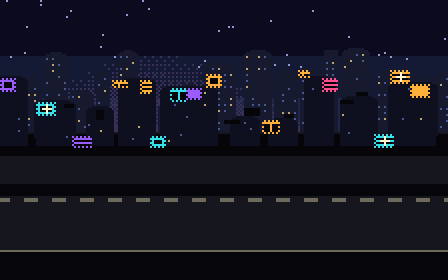
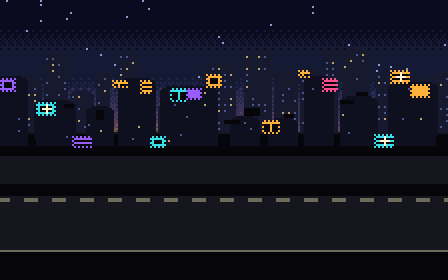
feat(highway-night): let a halo fall off instead of ending
Three ramps gain a fifth step — the air a beam crosses, the asphalt under a
head, and the asphalt behind a tail lamp — and the band pass reads how many
steps a ramp has rather than assuming four, so every ramp that still has four
resolves to exactly what it did before. On four steps a light has one step of
skirt and then the dark, which is not what a light does.

The lamp heads and the oncoming headlamps also ask for a second lobe: three
times the span, an eighth of the gain, added alongside the core rather than
replacing it. Sources add, so what comes out is one profile with a point on it
— the tight core of the fitting and the long wash around it that is most of
what makes a photographed lamp look photographed.

The GIFs and the thumbnails are re-cut, the elevation's among them: it shares
the palette and the ramps, and a road that climbs one step further climbs it in
both pictures.

Claude-Session: https://claude.ai/code/session_01W4ZoF9Xtumsn5LKzoQCmzd

diff --git a/animations/highway-night/light.js b/animations/highway-night/light.js
@@ -177,14 +177,25 @@ export function addHaze(mat, c) {
 // front of itself. The mask is a lookup by material id and needs the material
 // buffer to read; a source that names none is handed neither, which is every
 // other source in the folder.
-export function addBloom(b, mat) {
-  if (b.span <= 0.5 || b.gain <= 0) return;
-  var reach = b.span * 2;
+//
+// A source may also ask for a second, much wider and much fainter lobe on top
+// of its own. Measured off a long exposure, a street lamp is not one falloff:
+// it is a tight core the width of the fitting and a skirt several times that,
+// carrying about an eighth of the brightness, and the skirt is most of what
+// makes the picture look photographed. One lobe cannot be both — widened to
+// the skirt it loses the core, narrowed to the core it loses the skirt — so it
+// is drawn as two, and because sources add rather than compete the pair comes
+// out as one profile with a point on it.
+var SKIRT_SPAN = 3;
+var SKIRT_GAIN = 1 / 8;
+
+function lobe(b, span, gain, mat) {
+  var reach = span * 2;
   var x0 = Math.max(0, Math.floor(b.x - reach));
   var y0 = Math.max(0, Math.floor(b.y - reach));
   var x1 = Math.min(VIEW_W - 1, Math.ceil(b.x + reach));
   var y1 = Math.min(VIEW_H - 1, Math.ceil(b.y + reach));
-  var inv = 1 / (b.span * b.span);
+  var inv = 1 / (span * span);
   var skip = (b.skip && mat) ? b.skip : null;
   var x, y, i, row, dx, dy, q, v;
   for (y = y0; y <= y1; y++) {
@@ -196,25 +207,37 @@ export function addBloom(b, mat) {
       if (q > 4) continue;
       i = row + x;
       if (skip && skip[mat[i]]) continue;
-      v = b.gain / (q + 0.25);
+      v = gain / (q + 0.25);
       lux[i] += v;
       if (b.red) ruby[i] += v;
     }
   }
 }
 
-// How much light there is, said in one of four bands.
+export function addBloom(b, mat) {
+  if (b.span <= 0.5 || b.gain <= 0) return;
+  lobe(b, b.span, b.gain, mat);
+  if (b.skirt) lobe(b, b.span * SKIRT_SPAN, b.gain * SKIRT_GAIN, mat);
+}
+
+// How much light there is, said in one of the steps of a ramp — as many steps
+// as that ramp happens to have. The count is handed in rather than assumed at
+// four, because a light that has to fall off over a long skirt wants more of
+// them than a wheel does, and a ramp is the only thing that knows how many it
+// has. Handing in four gives back exactly what this used to give back, which is
+// what makes lengthening one ramp cost nothing to any of the others.
 //
-// Forty fixed colours cannot be blended, so a value falling between two
-// bands is carried by how many pixels of a small tile take the upper one.
-// Which tile is the demonstration knob: the ordered dither dissolves the
-// boundary into texture, the scanline setting throws it into alternating rows
-// the way an interlaced capture would, and hard bands does none of it and
-// shows what the banding underneath actually looks like.
-export function bandLevel(L, x, y, texture) {
-  var v = L * 3;
+// Forty fixed colours cannot be blended, so a value falling between two bands
+// is carried by how many pixels of a small tile take the upper one. Which tile
+// is the demonstration knob: the ordered dither dissolves the boundary into
+// texture, the scanline setting throws it into alternating rows the way an
+// interlaced capture would, and hard bands does none of it and shows what the
+// banding underneath actually looks like.
+export function bandLevel(L, x, y, texture, steps) {
+  var top = steps - 1;
+  var v = L * top;
   if (v <= 0) return 0;
-  if (v >= 3) return 3;
+  if (v >= top) return top;
   var n = Math.floor(v);
   var f = v - n;
   if (texture < 0.5) {
@@ -224,5 +247,5 @@ export function bandLevel(L, x, y, texture) {
   } else if (f > 0.5) {
     n += 1;
   }
-  return n > 3 ? 3 : n;
+  return n > top ? top : n;
 }

diff --git a/animations/highway-night/palette.js b/animations/highway-night/palette.js
@@ -106,14 +106,24 @@ export var TAILROAD = 10;  // road standing in a red pool rather than an amber o
 export var SHADOW = 11;    // road with something standing over it
 export var FARROAD = 12;   // the oncoming carriageway, which is the same road further off
 
-// Four levels each, darkest first. The resolve pass reads one of these with a
-// level between 0 and 3 worked out from how much light landed on the pixel, so
-// every material brightens along its own colours: asphalt goes amber, paint
-// goes white, glass stays blue, a wheel stays black until it is almost under
-// the lamp.
+// Steps enough to climb, darkest first. The resolve pass reads one of these
+// with a level worked out from how much light landed on the pixel, so every
+// material brightens along its own colours: asphalt goes amber, paint goes
+// white, glass stays blue, a wheel stays black until it is almost under the
+// lamp.
+//
+// Four steps is the fewest that reads as a ramp and it is what most of these
+// have. Three of them have five, and the three are the ones a halo has to
+// travel down: the air a beam is crossing, the asphalt under a head, and the
+// asphalt behind a tail lamp. On four steps a light ends — one step of skirt
+// and then the dark — and a light in a photograph does not end. It has a tight
+// core and a long faint edge, and the edge is most of what the eye reads as
+// brightness. The fifth step is that edge, and how long a ramp is is read off
+// the ramp rather than declared anywhere, so lengthening one is adding a colour
+// to it and nothing else.
 export var RAMP = [];
-RAMP[AIR] = [CLEAR, C.beamFaint, C.beamFaint, C.beam];
-RAMP[ROAD] = [C.road, C.roadLit, C.roadGlow, C.roadHot];
+RAMP[AIR] = [CLEAR, C.beamDim, C.beamFaint, C.beamGlow, C.beam];
+RAMP[ROAD] = [C.road, C.roadLit, C.roadGlow, C.roadHot, C.roadSheen];
 RAMP[LANE] = [C.lane, C.lane, C.laneLit, C.laneLit];
 RAMP[EDGE] = [C.ink, C.road, C.roadLit, C.roadGlow];
 RAMP[CAR] = [C.carDark, C.carBody, C.carLit, C.hot];
@@ -122,13 +132,13 @@ RAMP[WHEEL] = [C.ink, C.carDark, C.carDark, C.carBody];
 RAMP[POLE] = [C.ink, C.carDark, C.carBody, C.carLit];
 RAMP[RAIL] = [C.ink, C.carDark, C.carBody, C.carBody];
 RAMP[TRAFFIC] = [C.carDark, C.carBody, C.carLit, C.carLit];
-RAMP[TAILROAD] = [C.road, C.tailFaint, C.tailFaint, C.tail];
+RAMP[TAILROAD] = [C.road, C.tailFaint, C.tailGlow, C.tail];
 
 // Shade is not a darker colour laid over the road. It is the same road with a
 // rung taken off the bottom of its ladder and the top of it out of reach: it
-// starts where lit asphalt starts and never gets to the hot step, so a car
-// driving through a pool drags a patch that stays one band behind the road it
-// is on however bright that road becomes. Laying a grey over the asphalt
+// starts where lit asphalt starts and stops two rungs below where the road it
+// lies on stops, so a car driving through a pool drags a patch that stays
+// behind the road it is on however bright that road becomes. Laying a grey over the asphalt
 // instead would have needed a colour of its own and would have gone flat the
 // moment a lamp passed overhead.
 RAMP[SHADOW] = [C.road, C.road, C.roadLit, C.roadGlow];

diff --git a/animations/highway-night/render/buffers.js b/animations/highway-night/render/buffers.js
@@ -119,7 +119,7 @@ export function resolve(step, texture, warmth, mottle, redEdge) {
   var cell = SPEED * LOOP / MOTTLE_CELLS;
   var scroll = SPEED * loopStep(step);
   var patched = mottle && cell > 0;
-  var x, y, i, m, L, share, level, colour;
+  var x, y, i, m, L, share, ramp, level, colour;
   for (y = 0; y < VIEW_H; y++) {
     for (x = 0; x < VIEW_W; x++) {
       i = y * VIEW_W + x;
@@ -141,7 +141,8 @@ export function resolve(step, texture, warmth, mottle, redEdge) {
         share = redEdge ? 0.5 + RED_EDGE * (bayer4(x, y) - 0.5) : 0.5;
         if (ruby[i] > share * L) m = TAILROAD;
       }
-      level = bandLevel(L, x, y, texture);
+      ramp = RAMP[m];
+      level = bandLevel(L, x, y, texture, ramp.length);
       // the warmth knob is a band offset, and it is allowed on the road and
       // the paint only: shifting the whole picture would just be a brightness
       // slider, whereas shifting the ground alone is the difference between
@@ -149,9 +150,9 @@ export function resolve(step, texture, warmth, mottle, redEdge) {
       if (m === ROAD || m === LANE || m === TAILROAD || m === SHADOW || m === FARROAD) {
         level += warmth;
         if (level < 0) level = 0;
-        else if (level > 3) level = 3;
+        else if (level >= ramp.length) level = ramp.length - 1;
       }
-      colour = RAMP[m][level];
+      colour = ramp[level];
       if (colour >= 0) put(x, y, colour);
     }
   }

diff --git a/animations/highway-night/groundlight.js b/animations/highway-night/groundlight.js
@@ -181,6 +181,11 @@ export function brakePool(z, flash, fromRow) {
 // from anywhere. It is measured on the screen rather than on the road, because
 // a halo is a halo from wherever you stand — and it widens with the haze knob,
 // because that is what haze does to a light source.
+//
+// It asks for the skirt, which is the second and much fainter lobe light.js
+// lays around the same point. A lamp on a long exposure has a core the width of
+// its fitting and a wash several times that, and the wash is what makes a lamp
+// look photographed rather than stamped.
 export function headBloom(p, flare) {
   var m = ppm(p.d);
   return {
@@ -188,6 +193,7 @@ export function headBloom(p, flare) {
     y: p.lampY,
     span: clamp((0.22 + 0.16 * P.coneHaze) * m, 1.1 * S, 4 * S),
     gain: 0.34 * (1 + 1.5 * flare),
+    skirt: true,
     red: false
   };
 }

diff --git a/animations/highway-night/approach.js b/animations/highway-night/approach.js
@@ -128,7 +128,9 @@ export function onStage(step) {
 
 // The glare around each lamp. Small: a headlamp at this distance is a point,
 // and the halo is the only thing that says the point is a light rather than a
-// star that has got below the horizon.
+// star that has got below the horizon. Small, and then carried a long way out
+// by the skirt — a headlamp pointed at the camera is the one source in the
+// picture whose wash is wider than the thing throwing it.
 export function approachBlooms(cars) {
   var out = [];
   var i, k, lamps, l;
@@ -142,6 +144,7 @@ export function approachBlooms(cars) {
         y: l.y,
         span: clamp(0.55 * l.m, 1.1 * S, 3.5 * S),
         gain: 0.30,
+        skirt: true,
         red: false
       });
     }
